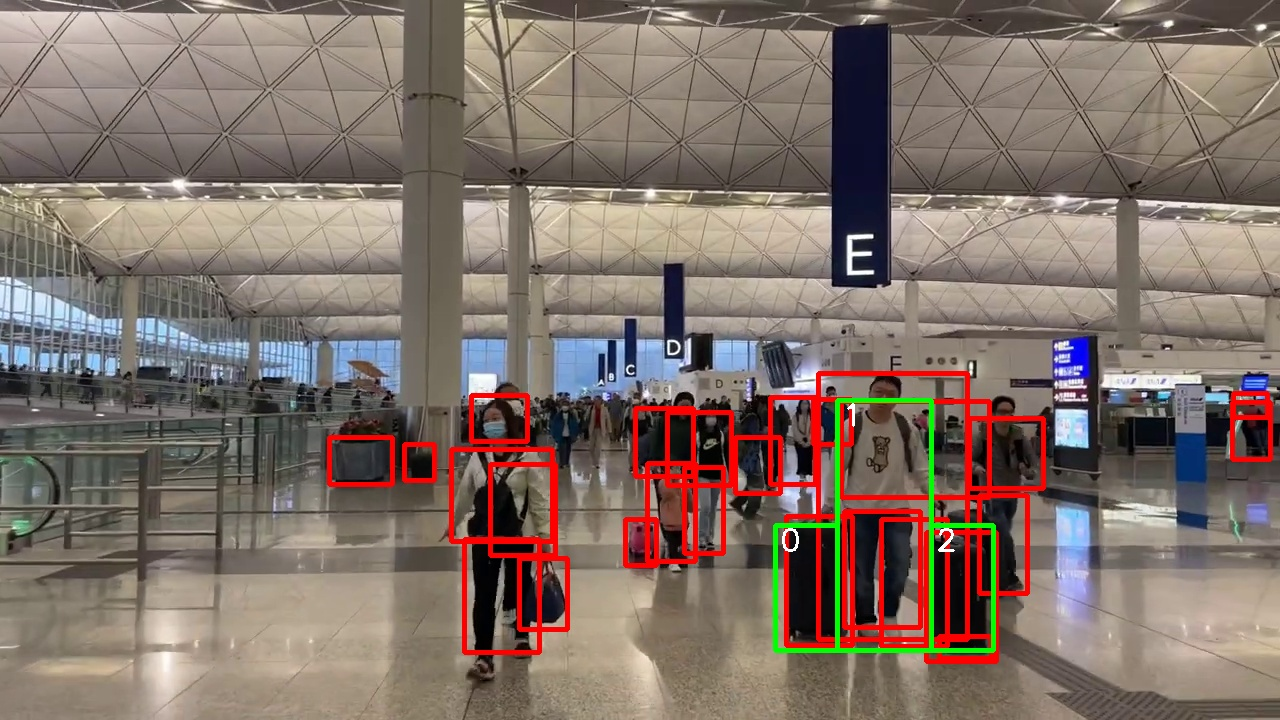
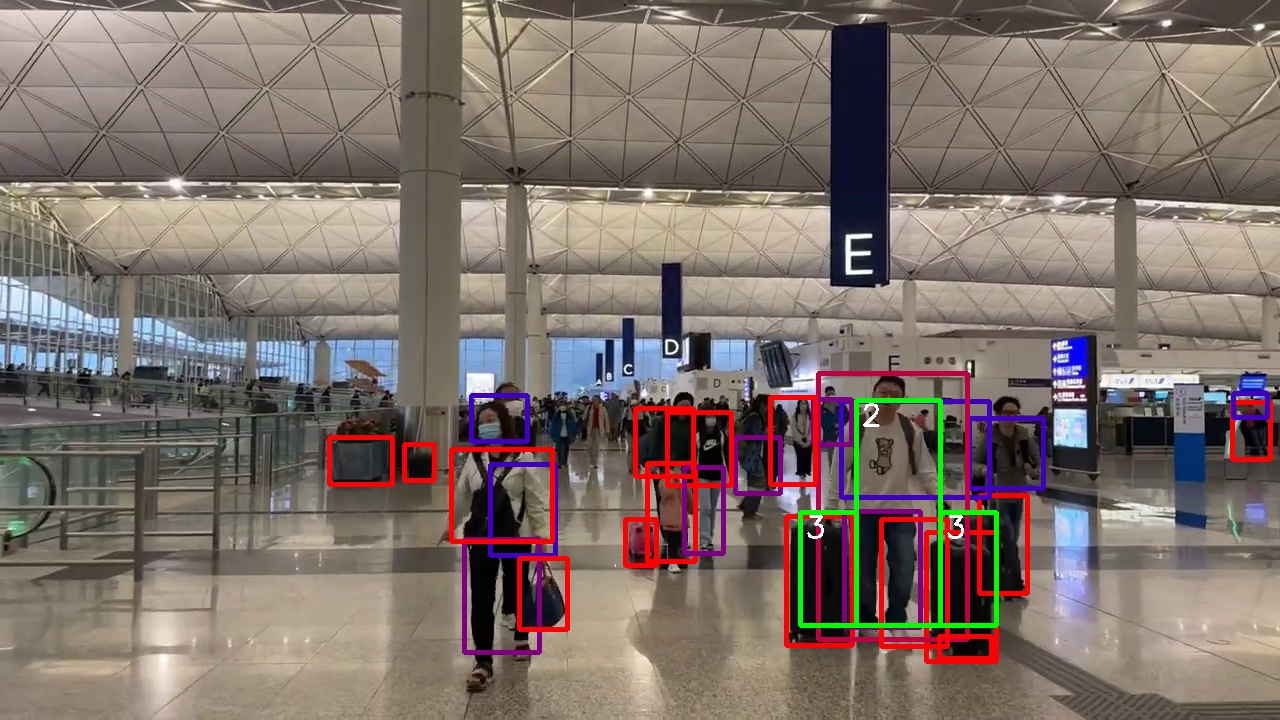
pattern matching with class

diff --git a/pattern_matcher.py b/pattern_matcher.py
@@ -3,20 +3,17 @@ import time
 from outputs import FrameResult
 import json
 import cv2
-#TODO: match by class
-#TODO: weight each IOU by frame score
 
 
 #inputs:
 #bbox in (x_0,y_0,x_1,y_1) format 
-#frame_boxes: (len(frame),4)
-#transformed_boxes: (len(pattern),4,len(parem))
+#frame_boxes: (len(frame),5)
+#transformed_boxes: (len(pattern),5,len(parem))
 #returns: (len(pattern),len(frame),len(parem)) i.e. an iou matrix for each parem combination
 #reference: https://stackoverflow.com/questions/57897578/efficient-way-to-calculate-all-ious-of-two-lists
 def _iou(frame_boxes,transformed_boxes):
     low = np.s_[:,:,(0,1),:]
     high = np.s_[:,:,(2,3),:]
-    start=time.perf_counter()
     frame_boxes=np.expand_dims(frame_boxes,(0,3))
     transformed_boxes=np.expand_dims(transformed_boxes,(1))
     A,B = frame_boxes.copy(),transformed_boxes.copy()
@@ -30,30 +27,30 @@ def _iou(frame_boxes,transformed_boxes):
     b_area=(B[high]-B[low]).prod(2)
     union_area=a_area+b_area-intersection_area
     ious=intersection_area / union_area
-    print(f"IOU max value: {np.max(ious)} median: {np.median(ious)}")
     #sanity check: iou<1
     assert(np.all(ious<=1))
-    end=time.perf_counter()
-    print(f"Time: {end-start}s")
     return ious
 
+#Generate the grid for grid search for best offset and scaling factor for the pattern
 class ParemGrid:
-    def __init__(self,frame_w=1280,frame_h=720,sampling_rate=50) -> None:
-        parem_grid=np.mgrid[0:frame_w:sampling_rate,0:frame_h:sampling_rate,0.125:1.5:0.125]
-        self.parem_grid=np.reshape(parem_grid,(3,-1),'F') #F stands for Fortran style row major ordering
+    def __init__(self,frame_w=1280,frame_h=720,sampling_rate=50,scale_range=(0.125,1.5,0.125)) -> None:
+        parem_grid_raw=np.mgrid[0:frame_w:sampling_rate,0:frame_h:sampling_rate,scale_range[0]:scale_range[1]:scale_range[2]]
+        self.parem_grid=np.reshape(parem_grid_raw,(3,-1),'F') #F stands for Fortran style row major ordering
+        self.len=self.parem_grid.shape[1]
     def xy(self):
         return self.parem_grid[(0,1),:]
     def k(self):
         return self.parem_grid[(2),:]
 
     def __len__(self):
-        return self.parem_grid.shape[1]
+        return self.len
 
 class Pattern:
     
     def __init__(self,patter_list) -> None:
         self.data=patter_list
         self._np=np.array(patter_list)
+        print(f"Pattern Array: {self._np}")
         self.len=self._np.shape[0]
 
     def xywh(self):
@@ -62,19 +59,21 @@ class Pattern:
         return FrameResultNp.xywh2xyxy(self.xywh())
 
     def classes(self):
-        self._np[:,4]
+        return self._np[:,4]
 
     #to preserve the shape, we must transform with xyxy format
     def transform_with_parem(self,parem:ParemGrid):
         xyxy=self.xyxy()
         lower_point=np.expand_dims(xyxy[:,(0,1)],(2))
         higher_point=np.expand_dims(xyxy[:,(2,3)],(2))
+        classes=np.expand_dims(self.classes(),(1,2))
         k=np.expand_dims(parem.k(),(0,1))
         x_0_y_0=np.expand_dims(parem.xy(),(0))
         lower_scaled,higher_scaled=k*lower_point,k*higher_point
         lower_shifted=lower_scaled+x_0_y_0
         high_shifted=higher_scaled+x_0_y_0
-        new_boxes=np.concatenate([lower_shifted,high_shifted],(1))
+        classes_broadcasted=np.broadcast_to(classes,(classes.shape[0],classes.shape[1],len(parem)))
+        new_boxes=np.concatenate([lower_shifted,high_shifted,classes_broadcasted],(1))
         return new_boxes
     
     def __len__(self):
@@ -91,6 +90,8 @@ class Pattern:
             cv2.putText(image, f"{index}",(p1_x+5, p1_y+25), cv2.FONT_HERSHEY_SIMPLEX, 1, (255,255,255), 2)
         cv2.imwrite("pattern_visualized.jpg",image)
 
+
+#A wrapper class for FrameResult class which provides numpy functionalities
 class FrameResultNp:
     @staticmethod
     def xyxy2xywh(xyxy):
@@ -118,71 +119,132 @@ class FrameResultNp:
         pass
     def scores(self):
         pass
-
     def boxes_xywh(self):
         xyxy=self.boxes_xyxy()
         return self.xyxy2xywh(xyxy)
     def boxes_xyxy(self):
         return self._np[:,2:6]
+    def box_xyxyc(self):
+        return self._np[:,2:7]
+    def boxes_classes(self):
+        return self._np[:,6]
+    def get_boxes(self,index_loc):
+         return self._np[index_loc,:] 
 
-def match_box(ious_of_parem):
-    return np.argmax(ious_of_parem,axis=1)
-
+#return max_loc: the index of parem grid where average iou is maximized
+#return matched_box_index: index of frame boxes which most match with the pattern
+#len(match_box_index)==len(pattern)
 def match_pattern_impl(frame_result_boxes,transformed_parem_boxes):
     #iou result: len(pattern)*len(frame)*len(parem)
     iou_frame_pattern=_iou(frame_result_boxes,transformed_parem_boxes)
-    #use scipy linear assign to decide optimal box assignment for each parem group
-    max_index=match_box(iou_frame_pattern)
+    #set iou to zero for all classes that do not match
+    frame_box_classes=np.expand_dims(frame_result_boxes[:,4],(0,2))
+    #broadcast to match dimension
+    transformed_parem_boxes_classes=np.expand_dims(transformed_parem_boxes[:,4],(1))
+    class_not_eq=frame_box_classes!=transformed_parem_boxes_classes
+    class_matched_iou=np.where(class_not_eq,0,iou_frame_pattern)
+    # use maximum of each box to assign
+    max_index=np.argmax(class_matched_iou,axis=1)
     index_other_dim_1=np.tile(np.arange(max_index.shape[0]),(max_index.shape[1],1)).T
     index_other_dim_2=np.tile(np.arange(max_index.shape[1]),(max_index.shape[0],1))
     max_box_seleced=iou_frame_pattern[index_other_dim_1,max_index,index_other_dim_2]
     score_parem=np.average(max_box_seleced,axis=0)
     # print(f"Scores of parem: {score_parem} shape: {score_parem.shape}")
     max_loc=np.argmax(score_parem)
-    print(f"Max loc:{max_loc} Max Score:{score_parem[max_loc]}")
-    return max_loc
+    matched_box_index=max_index[:,max_loc]
+    best_ious=iou_frame_pattern[:,matched_box_index,max_loc]
+    return max_loc,matched_box_index,score_parem[max_loc],best_ious
+
+
+class PatternScorer:
+    def __init__(self,pattern,frame_w=1280,frame_h=720,sampling_step=50,scale_range=(0.125,1.5,0.125),class_list=None) -> None:
+        self.class_list=class_list
+        if self.class_list is not None:
+            color_step=255//len(self.class_list)
+            colors=[(255-i*color_step,0,i*color_step) for i in range(1,len(self.class_list)+1)]
+            self.class_color=colors
+        else:
+            self.class_color=None
+        self.pattern=Pattern(patter_list=pattern)
+        self.frame_width=frame_w
+        self.frame_height=frame_h
+        self.sample_step=sampling_step
+        self.scale_range=scale_range
+
+    
+    
+    def score(self,frame_result:FrameResult):
+        frame_result_np=FrameResultNp(frame_result)
+        parem_grid=ParemGrid(frame_h=self.frame_height,frame_w=self.frame_width,sampling_rate=self.sample_step,scale_range=self.scale_range)
+        transformed_boxes=self.pattern.transform_with_parem(parem_grid)
+        max_parem_loc,match_box_loc,avg_iou,best_ious=match_pattern_impl(frame_result_np.box_xyxyc(),transformed_boxes)
+        best_boxes=transformed_boxes[:,:,max_parem_loc].tolist()
+        result={
+            # scale and shifted pattern bounding box which maximize avg_iou with boxes in the frame
+            'pattern_box':best_boxes,
+            # the index of the boxes in frame_result which matches the pattern
+            # use frame_result.data[match_box_loc[i]] to get the corresponding box
+            'match_box_index':match_box_loc,
+            #average iou of matched box and pattern box
+            'avg_iou':avg_iou,
+            #iou of 'pattern_box'and matched box in the frame
+            'pattern_box_iou':best_ious,
+        }
+        return result
+
+    #return average iou weighted by confidence score
+    #the confidence score better be scaled between [0,1]
+    def score_weighted(self):
+        pass
+
+    def visualize_frame_result(self,frame_result:FrameResult)->None:
+        labels=frame_result.get_prop('labels')
+        boxes=frame_result.get_prop('boxes')
+        scores=frame_result.get_prop('scores')
+        for index,label in enumerate(labels):
+            point=boxes[index]
+            p1_x,p1_y,p2_x,p2_y=int(point[0]),int(point[1]),int(point[2]),int(point[3])
+            #print(f"P1： ({p1_x},{p1_y}) P2: ({p2_x},{p2_y})")
+            cv2.rectangle(img=image,pt1=(p1_x,p1_y),pt2=(p2_x,p2_y),color=self.class_color[label],thickness=3)
+            #score_str="{:.2f}".format(scores[index])
+            #cv2.putText(image, f"{label+1} ({score_str})",(p1_x+5, p1_y+25), cv2.FONT_HERSHEY_SIMPLEX, 1, (255,255,255), 2)
+
+    #pattern_boxes: xyxyc format ('pattern_box' of result dict of score)
+    def visualize_boxes(self,pattern_boxes):
+        for point in pattern_boxes:
+            p1_x,p1_y,p2_x,p2_y=int(point[0]),int(point[1]),int(point[2]),int(point[3])
+            cv2.rectangle(image,pt1=(p1_x,p1_y),pt2=(p2_x,p2_y),color=(0,255,0),thickness=3)
+            cv2.putText(image, f"{int(point[4])}",(p1_x+5, p1_y+25), cv2.FONT_HERSHEY_SIMPLEX, 1, (255,255,255), 2)
+
 
 if __name__=="__main__":
-    
     #use frame 550 of 100s video as test
     parem_grid=ParemGrid()
     #Person with two luggage pattern xywh
-    pattern=Pattern([
-        (0,100,50,100), #luggage one
-        (50,0,75,200), #person
-        (75+50,100,50,100), #luggage two
-    ])
+    #the class index of the pattern must be the same as frame result
+    #here, index of person is 2; index of luggage is 3
+    pattern_man_two_luggages=[
+        (0,100,50,100,3), #luggage one
+        (50,0,75,200,2), #person
+        (75+50,100,50,100,3), #luggage two
+    ]
+    pattern_scorer=PatternScorer(pattern=pattern_man_two_luggages,class_list=["white shirt", "blue jeans", "white shirt blue jeans man", "black suitcase"])
     frame_result=FrameResult()
     with open('misc/pattern_test.json') as f:
         data=json.load(f)
         frame_result.from_data_dict(data)
-    frame_result=FrameResultNp(frame_result)
-    #size: len(pattern)*(x,y,w,h)*len(parem) 
     start=time.perf_counter()
-    transformed_boxes=pattern.transform_with_parem(parem_grid)
-    max_parem_loc=match_pattern_impl(frame_result.boxes_xyxy(),transformed_boxes)
-    print(f"Max Parem Loc: {max_parem_loc}")
-    print(f"Max Parems: {parem_grid.parem_grid[:,max_parem_loc]}")
-    best_boxes=transformed_boxes[:,:,max_parem_loc].tolist()
-    print(f"Best Transformed Boxes: {best_boxes}")
+    result_dict=pattern_scorer.score(frame_result)
+    print(result_dict)
     end=time.perf_counter()
     image=cv2.imread("misc/frame_550.jpg")
-    #visualize the original boxes:
-    for index,record in enumerate(frame_result.data):
-        point=record[2]
-        p1_x,p1_y,p2_x,p2_y=int(point[0]),int(point[1]),int(point[2]),int(point[3])
-        #print(f"P1： ({p1_x},{p1_y}) P2: ({p2_x},{p2_y})")
-        cv2.rectangle(image,pt1=(p1_x,p1_y),pt2=(p2_x,p2_y),color=(0,0,255),thickness=3)
-    #visualize the matched boxes
-    for index,point in enumerate(best_boxes):
-        p1_x,p1_y,p2_x,p2_y=int(point[0]),int(point[1]),int(point[2]),int(point[3])
-        #print(f"P1： ({p1_x},{p1_y}) P2: ({p2_x},{p2_y})")
-        cv2.rectangle(image,pt1=(p1_x,p1_y),pt2=(p2_x,p2_y),color=(0,255,0),thickness=3)
-        cv2.putText(image, f"{index}",(p1_x+5, p1_y+25), cv2.FONT_HERSHEY_SIMPLEX, 1, (255,255,255), 2)
+    #visualize the boxes from the frame
+    pattern_scorer.visualize_frame_result(frame_result)
+    #visualize the match pattern boxes
+    best_boxes=result_dict['pattern_box']
+    pattern_scorer.visualize_boxes(best_boxes)
     cv2.imwrite("result_550_visualized.jpg",image)
     print(f"Run time: {end-start}s")
-    #return score for parem group
-    #return result and best parems
     
 
 
